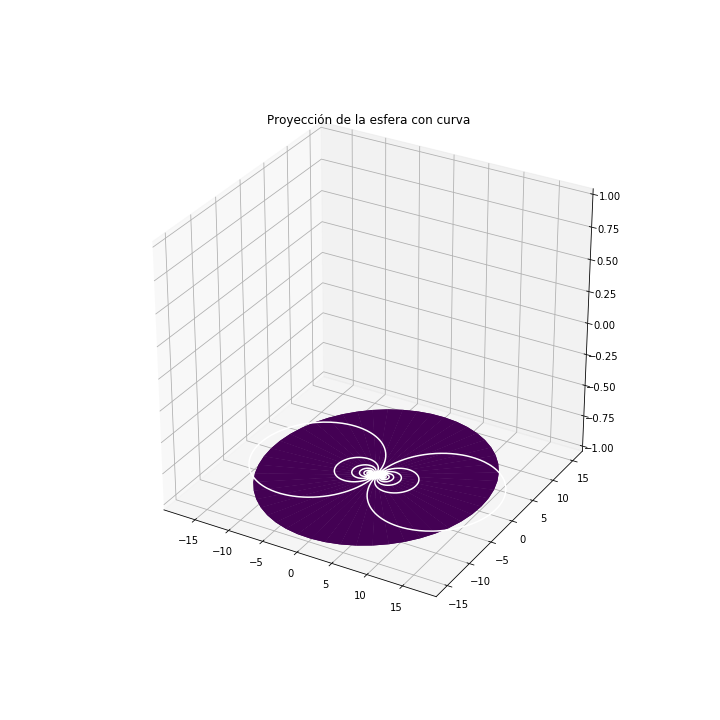
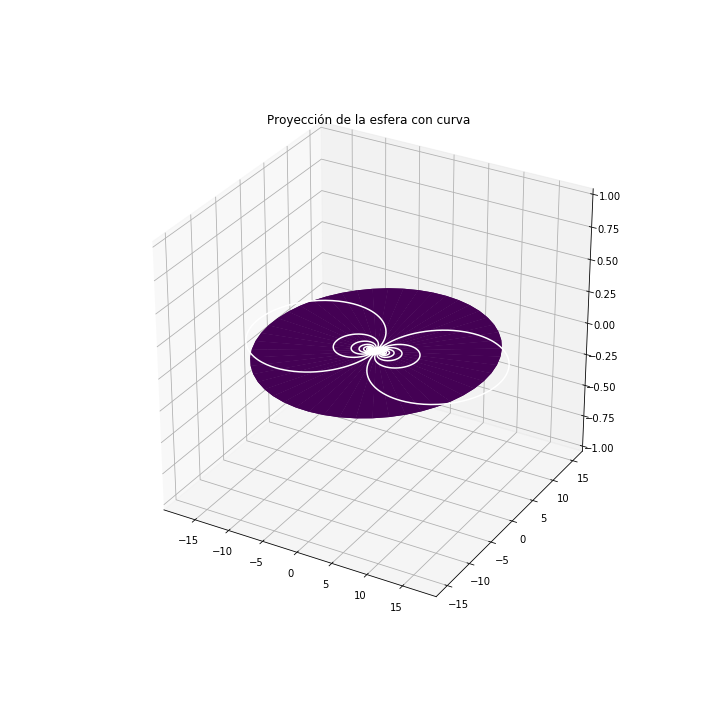
mejora fps animaciones

Changed region(s): [[0.3361, 0.3972, 0.7028, 0.7639]]

diff --git a/Práctica 5/Práctica 5.py b/Práctica 5/Práctica 5.py
@@ -24,7 +24,7 @@ def proy_est(x, y, z):
     eps = 10**-20
     xp = x / (1 - z + eps)
     yp = y / (1 - z + eps)
-    zp = -np.ones_like(z)
+    zp = np.zeros_like(z)
     return xp, yp, zp
 
 # Dadas unas coordenadas cartesianas x, y, z pertenecientes a la
@@ -156,14 +156,14 @@ plt.show()
 
 # Usamos la función animate definida arriba para crear la 
 # animación de la familia paramétrica dada en param2
-tvalues = np.linspace(0, 1, 30, endpoint=True)
+tvalues = np.linspace(0, 1, 150, endpoint=True)
 fig = plt.figure(figsize=(10,10))
 ani = animation.FuncAnimation(fig, animate, tvalues, fargs=(param2, x, y, z, x2, y2, z2, False))
-ani.save('ani_ej2.gif', fps= 60)
+ani.save('ani_ej2.gif', writer='imagemagick', fps= 30)
 
 fig = plt.figure(figsize=(10,10))
 ani = animation.FuncAnimation(fig, animate, tvalues, fargs=(param2, x, y, z, x2, y2, z2, True))
-ani.save('ani_ej2_fix.gif', fps= 60)
+ani.save('ani_ej2_fix.gif', writer='imagemagick', fps= 30)
 
 
 ## Ejercicio 3 (voluntario)
@@ -185,11 +185,11 @@ phi2, theta2 = cart2esf(x2, y2, z2)
 
 # Usamos la función animate definida arriba para crear la 
 # animación de la familia paramétrica dada en param3
-tvalues = np.linspace(0, 1, 30, endpoint=True)
+tvalues = np.linspace(0, 1, 150, endpoint=True)
 fig = plt.figure(figsize=(10,10))
 ani = animation.FuncAnimation(fig, animate, tvalues, fargs=(param3, phi, theta, z, phi2, theta2, z2, False))
-ani.save('ani_ej3.gif', fps=60)
+ani.save('ani_ej3.gif', writer='imagemagick', fps=30)
 
 fig = plt.figure(figsize=(10,10))
 ani = animation.FuncAnimation(fig, animate, tvalues, fargs=(param3, phi, theta, z, phi2, theta2, z2, True))
-ani.save('ani_ej3_fix.gif', fps=60)
+ani.save('ani_ej3_fix.gif', writer='imagemagick', fps=30)
